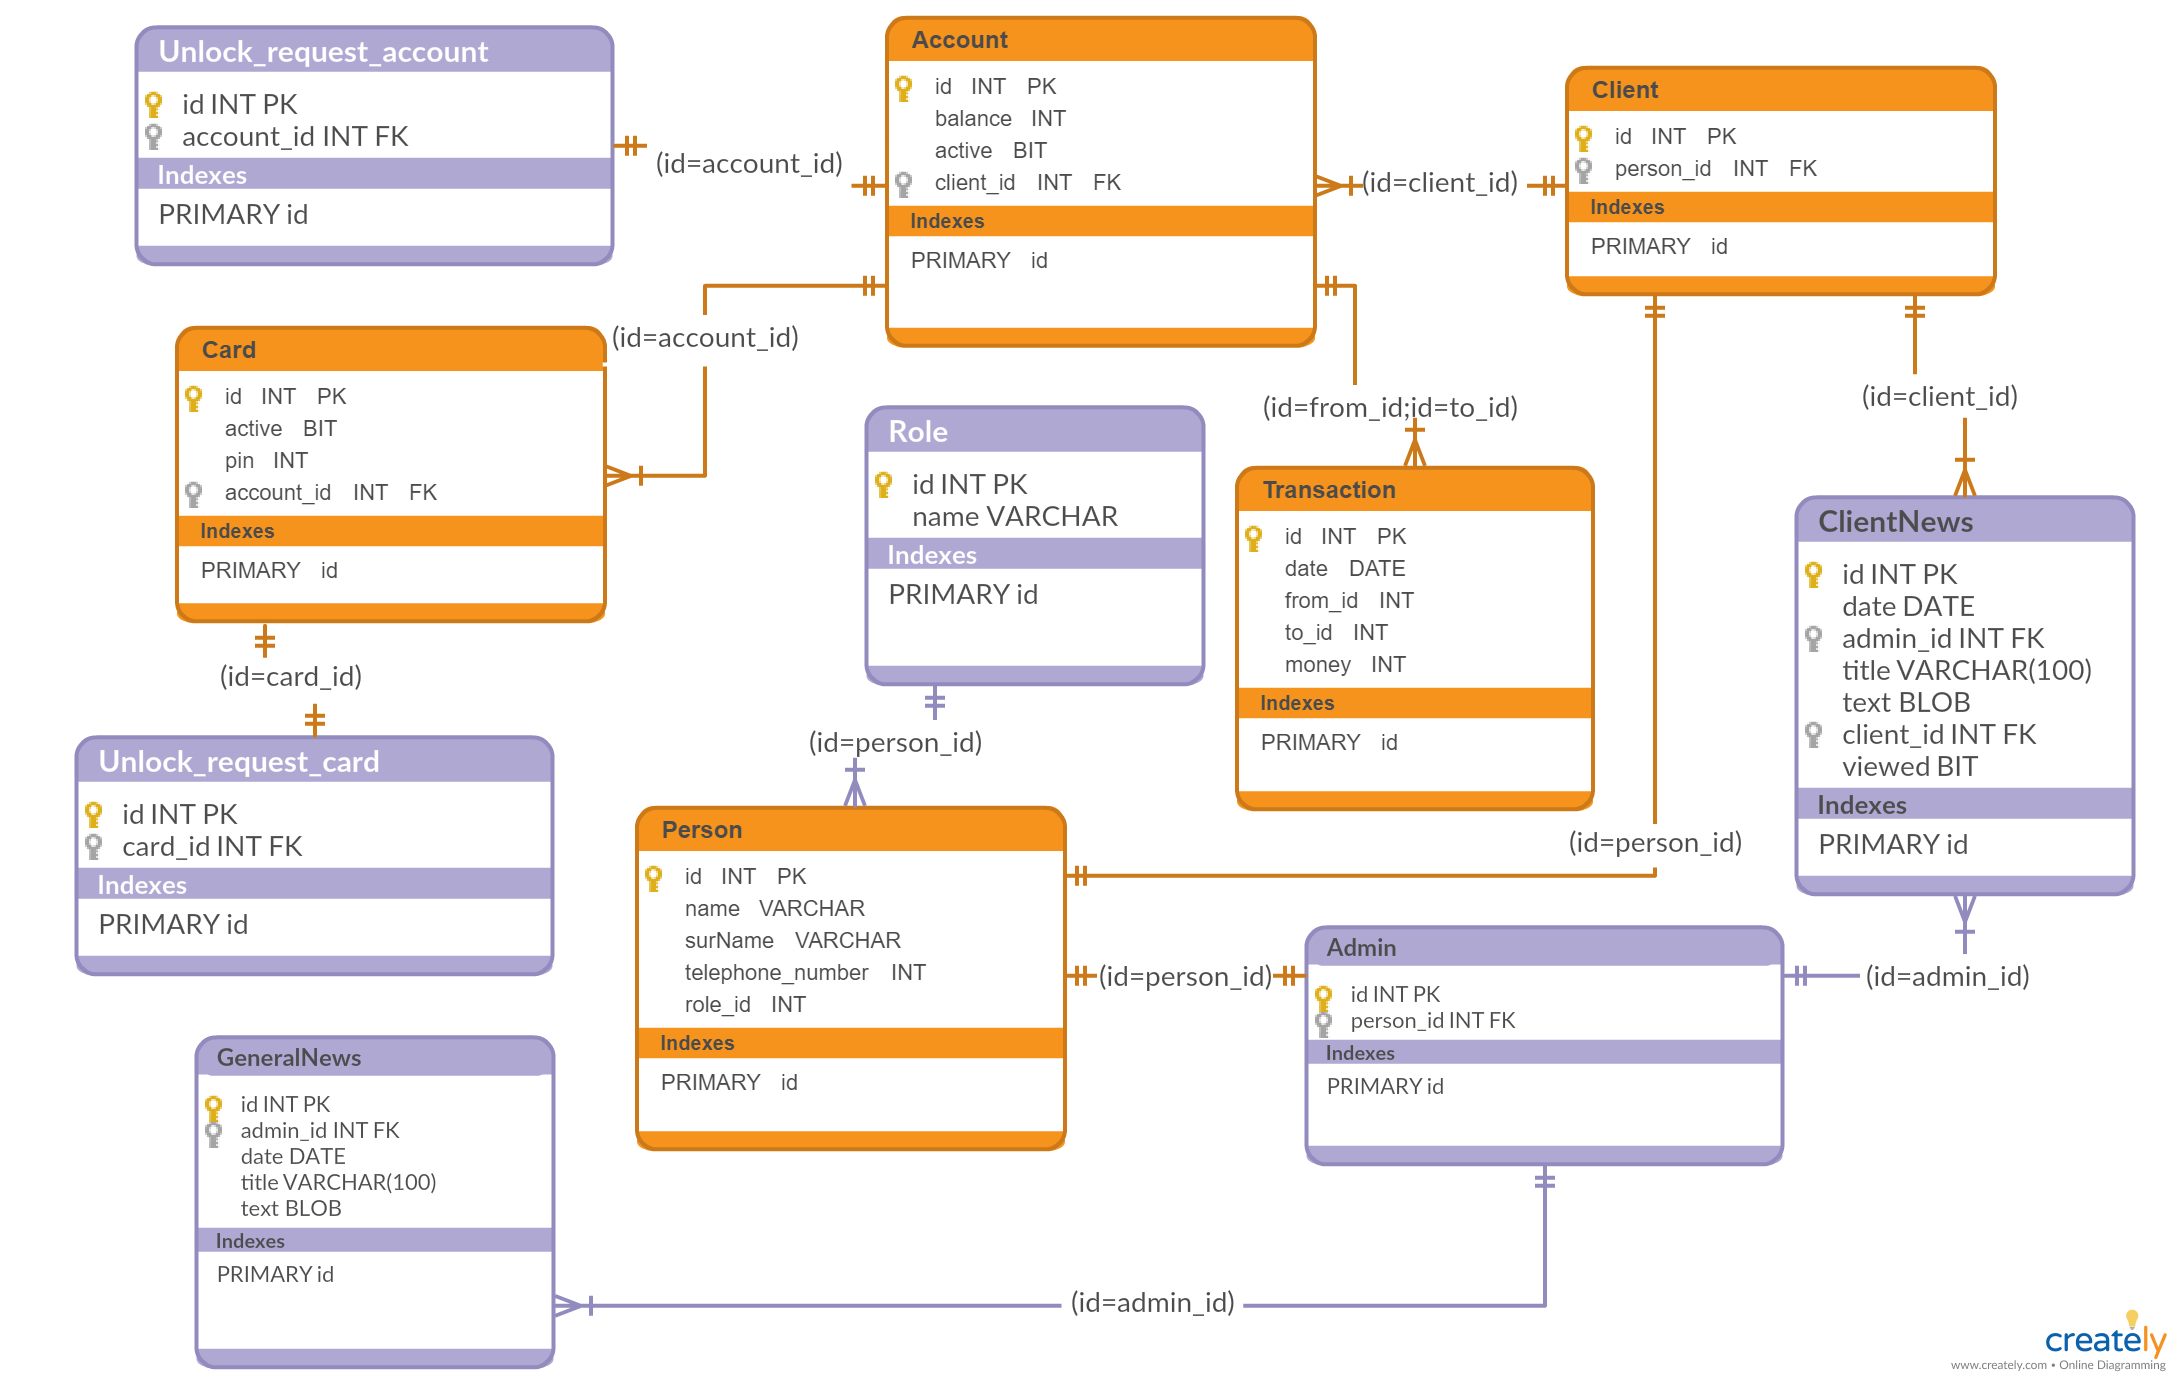
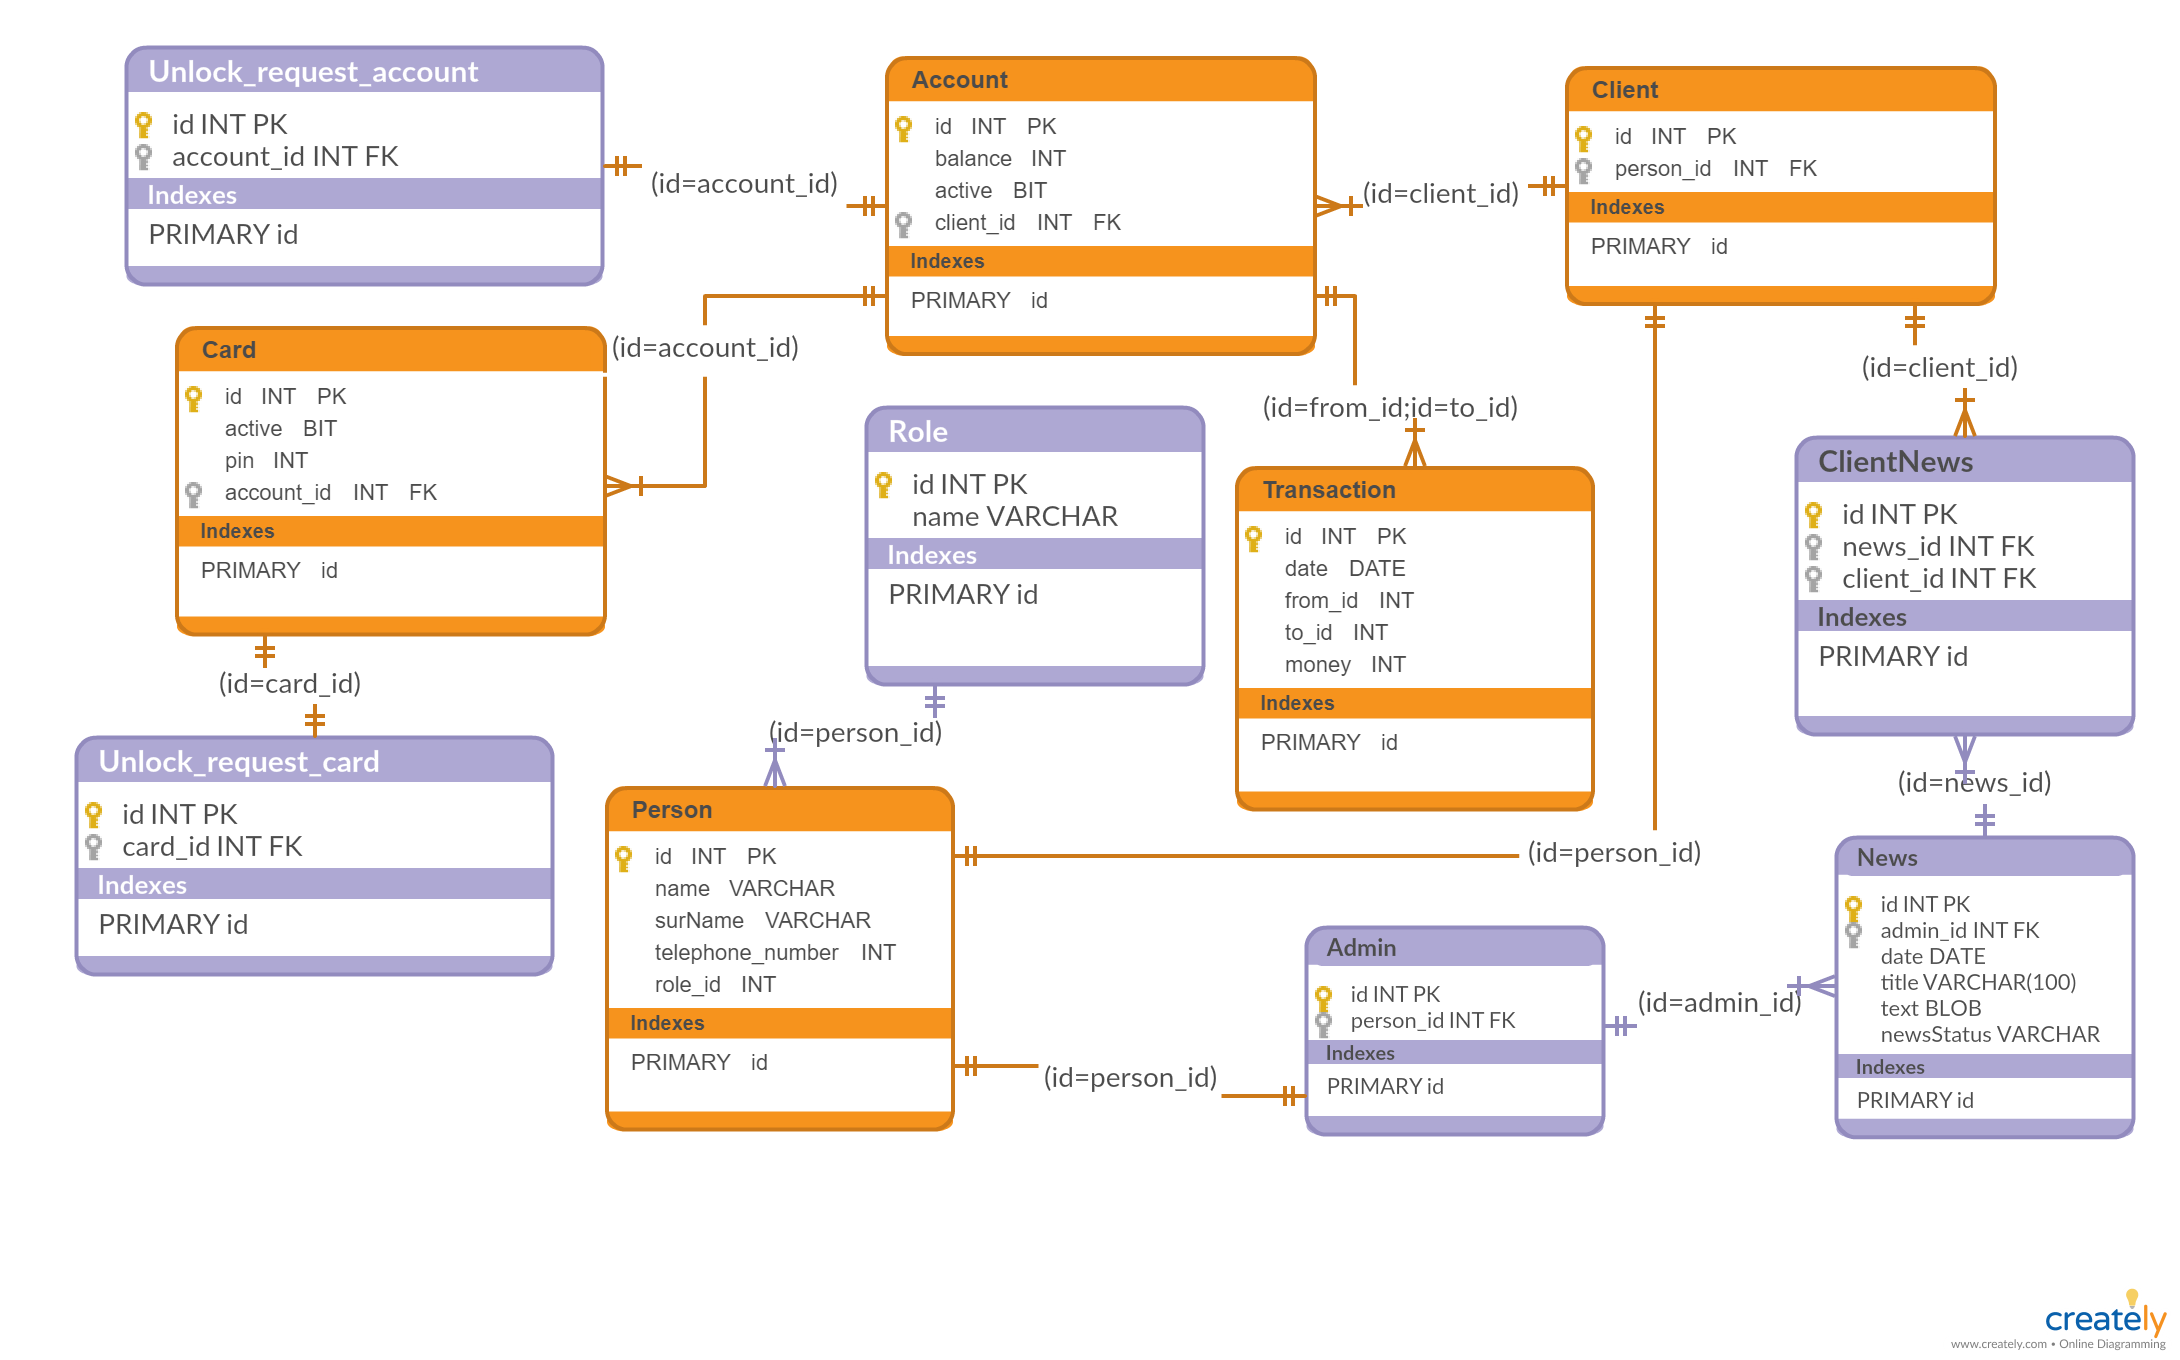
delete unnecessary field in ClientNews.java

diff --git a/services/src/main/java/dev3/bank/impl/VisitorServiceImpl.java b/services/src/main/java/dev3/bank/impl/VisitorServiceImpl.java
@@ -6,6 +6,7 @@ import dev3.bank.dao.interfaces.ClientDAO;
 import dev3.bank.dao.interfaces.NewsDAO;
 import dev3.bank.entity.Client;
 import dev3.bank.entity.News;
+import dev3.bank.entity.NewsStatus;
 import dev3.bank.entity.Person;
 import dev3.bank.interfaces.VisitorService;
 
@@ -15,7 +16,7 @@ public class VisitorServiceImpl implements VisitorService {
     @Override
     public Collection<News> getAllNews() {
         NewsDAO newsDAO = new NewsDAOImpl();
-        return newsDAO.getAll();
+        return newsDAO.getNewsByStatus(NewsStatus.GENERAL);
     }
 
     @Override

diff --git a/dao/src/main/java/dev3/bank/dao/impl/ClientNewsDAOImpl.java b/dao/src/main/java/dev3/bank/dao/impl/ClientNewsDAOImpl.java
@@ -20,12 +20,5 @@ public class ClientNewsDAOImpl extends CrudDAOImpl<ClientNews> implements Client
                 .collect(Collectors.toList());
     }
 
-    @Override
-    public Collection<ClientNews> getAllUnviewedByClientId(long clientId) {
-        return getEntityMapValues()
-                .stream()
-                .filter(clientNews -> ((clientNews.getClient().getId() == clientId)
-                        || (clientNews.getClient().getId() == 0)) && !clientNews.isViewed())
-                .collect(Collectors.toList());
-    }
+
 }

diff --git a/dao/src/main/java/dev3/bank/entity/ClientNews.java b/dao/src/main/java/dev3/bank/entity/ClientNews.java
@@ -2,7 +2,6 @@ package dev3.bank.entity;
 
 public class ClientNews extends BaseEntity {
     private Client client;
-    private boolean viewed;
     private News news;
 
     public Client getClient() {
@@ -11,14 +10,6 @@ public class ClientNews extends BaseEntity {
 
     public void setClient(Client client) {
         this.client = client;
-    }
-
-    public boolean isViewed() {
-        return viewed;
-    }
-
-    public void setViewed(boolean viewed) {
-        this.viewed = viewed;
     }
 
     public News getNews() {

diff --git a/services/src/main/java/dev3/bank/impl/ClientServiceImpl.java b/services/src/main/java/dev3/bank/impl/ClientServiceImpl.java
@@ -10,6 +10,7 @@ import dev3.bank.interfaces.ClientService;
 import java.text.SimpleDateFormat;
 import java.util.Collection;
 import java.util.Date;
+import java.util.stream.Stream;
 
 public class ClientServiceImpl implements ClientService {
 
@@ -47,6 +48,8 @@ public class ClientServiceImpl implements ClientService {
         AccountDAO accountDAO = new AccountDAOImpl();
         return accountDAO.getUnlockedAccounts();
     }
+
+
 
     @Override
     public Collection<Card> getUnlockCards(long clientId) {

diff --git a/dao/src/main/java/dev3/bank/dao/interfaces/ClientNewsDAO.java b/dao/src/main/java/dev3/bank/dao/interfaces/ClientNewsDAO.java
@@ -6,5 +6,4 @@ import java.util.Collection;
 
 public interface ClientNewsDAO extends CrudDAO<ClientNews> {
     Collection<ClientNews> getAllByClientId(long clientId);
-    Collection<ClientNews> getAllUnviewedByClientId(long clientId);
 }

diff --git a/services/src/main/java/dev3/bank/interfaces/ClientService.java b/services/src/main/java/dev3/bank/interfaces/ClientService.java
@@ -32,4 +32,5 @@ public interface ClientService {
     UnlockCardRequest unlockCardRequest(long cardId);
 
     UnlockAccountRequest unlockAccountRequest(long accountId);
+
 }
